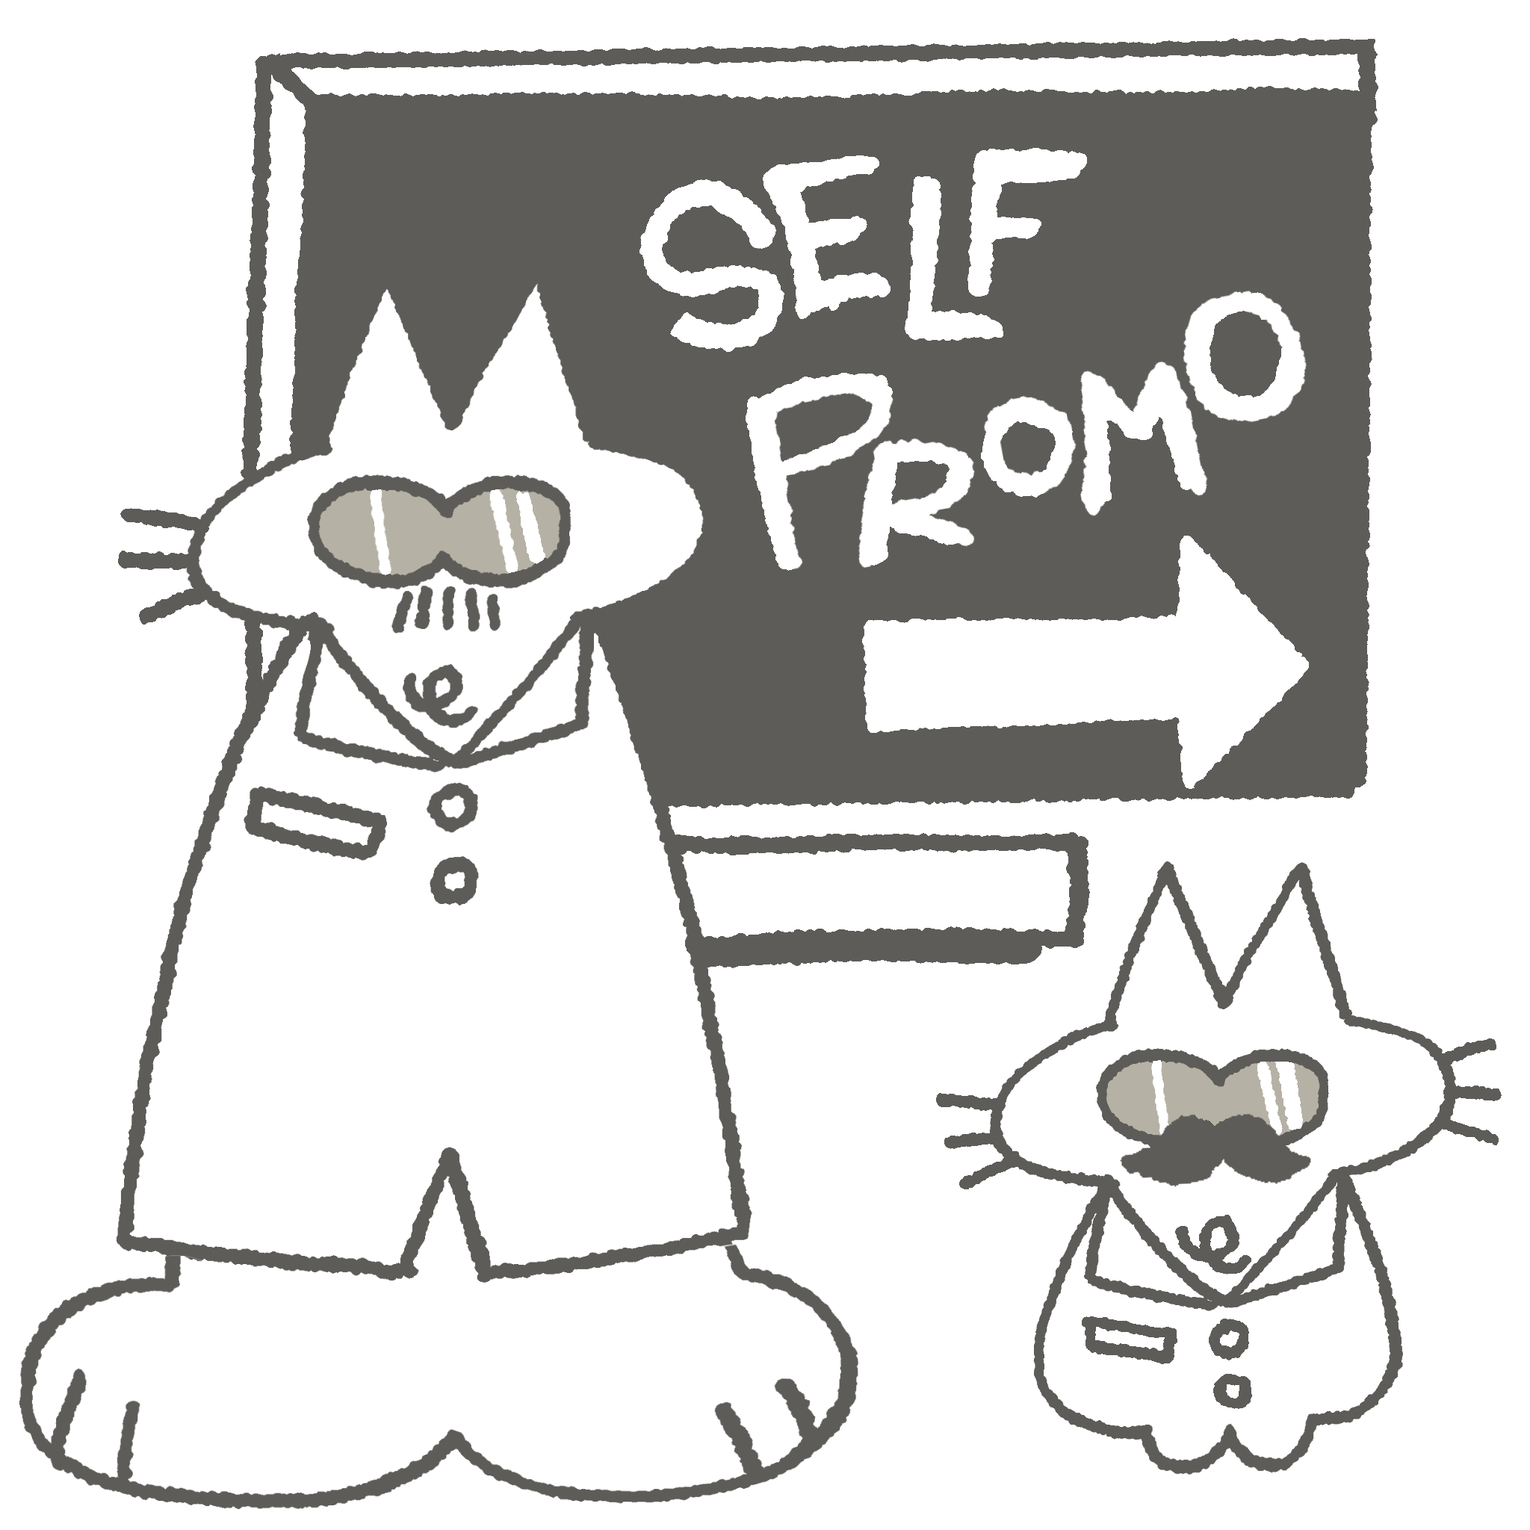
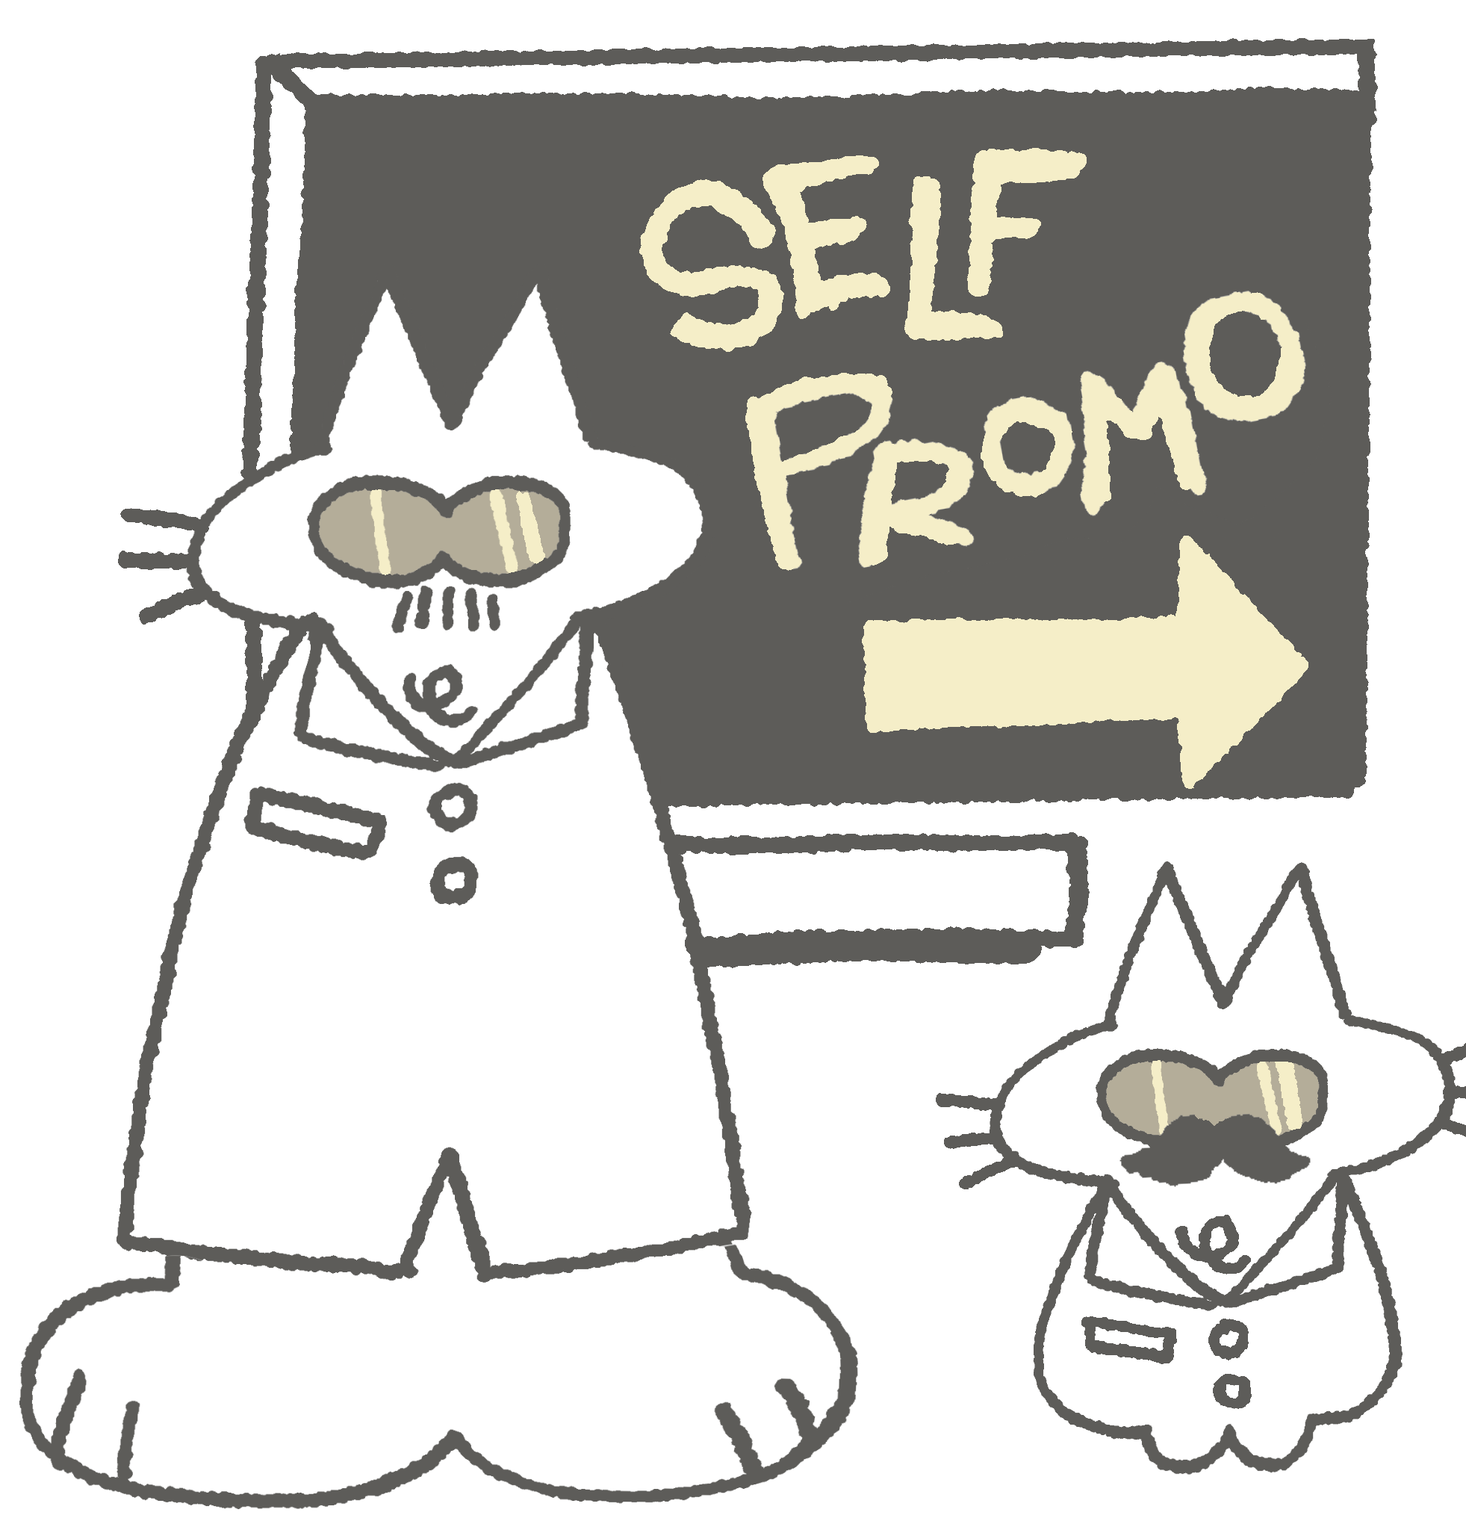
debug + feat: catalogue filter, self-promo content
trying to debug the catalogue filter issue, im pretty sure its an issue with the coding logic with the multiselection filter because it doesnt consider all the options selected

also added basic version of content into self promo pages and customised it a bit aesthetically

diff --git a/events.html b/events.html
@@ -5,8 +5,8 @@
       <meta name="viewport"
       content="width=device-width,
       initial-scale=1.0">
-    <link rel="stylesheet" href="style.css">
-    <script src="script.js" defer></script>
+    <link rel="stylesheet" href="./css-files/style.css">
+    <script src="./js-files/script.js" defer></script>
     <script src="./js-files/script.js"></script> 
     <title>KRAFTY</title>
     <link rel="icon" href="./HTML-graphics/KRAFTY_logo.png">
@@ -16,42 +16,62 @@
 
     <h2>Events</h2>
     <div class="events-content">
-      <h3>Inktober</h3>
-      <p>Annual art event hosted by creatives () where for the month of October, a one-word prompt is released everyday. Artists around the world (including you!) can partake in this event by creating a creative piece such as an ink sketch, digital illustration or even a doodle inspired off these prompts. Every year, thousands of artists share their creative ideas and interpretations tagging the official Inktober account below!</p>
-      <a class="button" href="${prod.link}">Official Insta Page</a>
+      <div class="left-p">
+        <h3>Inktober</h3>
+        <p>Annual art event originally created by Jake Parker as an ink-drawing challenge for the month of October. Today, it has been transformed into an all-art inclusive event where a one-word prompt is released everyday and artists around the world (including you!) can partake in by creating a creative piece such as an ink sketch, digital illustration or even a doodle inspired off the prompts. Every year, thousands of artists share their imaginative ideas and interpretations tagging the official Inktober account below! There are also similar month-related art challenges that are equally popular to Inktober such as Mermay, so choose one that suits you best.</p>
+        <a class="button" href="${prod.link}">Official Insta Page</a>
+      </div>
 
-      <h3>Artfight</h3>
-      <p>Art Fight is a global art event hosted every (the month) where a growing 850,000 artists come together to play a massive fannart gifting game! It typically features the creation of unique team names and themes for artists to join, and artists can participate by finding artists with original characters of their liking, drawing, modelling or animating a piece of fannart and sending an 'attack'. Creating attacks, defenses, revenges and friendly fire all add up to your personal score that contributes to your team score, and by the end of the month the winning team is announced. You can join too by creating an account on their official website in the link below, and adding your very own original character spreadsheets and descriptions.  </p>
-      <a class="button" href="${prod.link}" style="padding-left: 60px; padding-right: 60px">Official Website</a>
-      <a class="button" href="${prod.link}" style="padding-left: 60px; padding-right: 60px">Discord Community</a>
+      <div class="right-p">
+        <h3>Artfight</h3>
+        <p>Art Fight is a global art event hosted every July where a growing 850,000 artists come together to play a massive fannart gifting game! It typically features the creation of unique team names and themes for artists to join, and artists can participate by finding artists with original characters of their liking, drawing, modelling or animating a piece of fannart and sending an 'attack'. Creating attacks, defenses, revenges and friendly fire all add up to your personal score that contributes to your team score, and by the end of the month the winning team is announced. You can join too by creating an account on their official website in the link below, and adding your very own original character spreadsheets and descriptions.  </p>
+        <a class="button" href="${prod.link}" style="padding-left: 60px; padding-right: 60px">Official Website</a>
+        <a class="button" href="${prod.link}" style="padding-left: 60px; padding-right: 60px">Discord Community</a>
+      </div>
 
-      <h3>Artfight Discord Minigames</h3>
-      <p>Since the rapid growth of Artfight and its community, the Artfight admins host art minigames in their official Discord server when Artfight is off season! This includes small and fun games such as 'Draw the Person Above You' or telephone art, which involves an initial artwork being redrawn multiple times by everyone and seeing all the details change with each piece! </p>
-      <a class="button" href="${prod.link}" style="padding-left: 60px; padding-right: 60px">Discord Community</a>
-      
-      <h3>DTIYS</h3>
-      <p>DTIYS stands for 'Draw it in your style' and is a common art challenge hosted by a plethora of big AND small artists online. These challenges come with a character, prompt or idea for you to redesign or create in your own artstyle, and it often comes with some prizes depending on the artist, like a some prize money, a mystery gift from their artshop, or a free commission! You can find many amazing DTIYS events by searching up the #DTIYS on social media platforms like Instagram, X, Tiktok and more.</p>
+      <div class="left-p">
+        <h3>Artfight Discord Minigames</h3>
+        <p>Since the rapid growth of Artfight and its community, the Artfight admins host art minigames in their official Discord server when Artfight is off season! This includes small and fun games such as 'Draw the Person Above You' or telephone art, which involves an initial artwork being redrawn multiple times by everyone and seeing all the details change with each piece! </p>
+        <a class="button" href="${prod.link}">Discord Community</a>
+      </div>
 
-      <h3>100 Day Project</h3>
-      <p>Although the '100 Day Project' is not an actual event or a community, it is a prevalent personal art challenge that many artists take themselves up to. It involves creating a single goal or subject/art form that you want to improve at and sticking to it for 100 days! Many artists on social media use it in a way that they post one piece of art every day, working on things like perspective, rendering, anatomy, animals and architecture. Watch yourself get better step by step, and see the rewarding transformation in your art!</p>
+      <div class="right-p">
+        <h3>DTIYS</h3>
+        <p>DTIYS stands for 'Draw it in your style' and is a common art challenge hosted by a plethora of big AND small artists online. These challenges come with a character, prompt or idea for you to redesign or create in your own artstyle, and it often comes with some prizes depending on the artist, like a some prize money, a mystery gift from their artshop, or a free commission! You can find many amazing DTIYS events by searching up the #DTIYS on social media platforms like Instagram, X, Tiktok and more.</p>
+      </div>
 
-      <h3>Secret Santa</h3>
-      <p>Secret Santa is another art gifting event hosting by hundreds of art Discord servers in the festive season of Christmas (although some art communities do it all year round!). It takes the exciting anonymity of traditional Secret Santa and replaces boxes of presents with gorgeous art based of your wishlist from a fellow community member! You can find discord art servers easily by searching in the communities section for 'art servers'; your favourite youtubers and artists might own a server too!</p>
+      <div class="left-p">
+        <h3>100 Day Project</h3>
+        <p>Although the '100 Day Project' is not an actual event or a community, it is a prevalent personal art challenge that many artists take themselves up to. It involves creating a single goal or subject/art form that you want to improve at and sticking to it for 100 days! Many artists on social media use it in a way that they post one piece of art every day, working on things like perspective, rendering, anatomy, animals and architecture. Watch yourself get better step by step, and see the rewarding transformation in your art!</p>
+      </div>
 
-      <h3>Art Trades/Collabs</h3>
-      <p>Art trading and art collaborations are both fun and often casual activities you can do with anyone: your school friends, your art mutuals, or even unacquainted artists from a Discord server! Some ideas that are done regularly include sending physical parcels of letters/drawings/trinkets, creating a piece of illustration of eachother's original characters or using a template or art trend where each artist can draw a specific pose or section of the final artwork!</p>
+      <div class="right-p">
+        <h3>Secret Santa</h3>
+        <p>Secret Santa is another art gifting event hosting by hundreds of art Discord servers in the festive season of Christmas (although some art communities do it all year round!). It takes the exciting anonymity of traditional Secret Santa and replaces boxes of presents with gorgeous art based of your wishlist from a fellow community member! You can find discord art servers easily by searching in the communities section for 'art servers'; your favourite youtubers and artists might own a server too!</p>
+      </div>
 
-      <h3>Indie Magazines</h3>
-      <p>There are many, many independent art magazine accounts and businesses that are open to submission! This means by submitting your illustrations and art, you can be featured in issues that proudly support and promote you and fellow artists. Many indie art magazines are usually based on social media platforms like Instagram, so searching key words like "art magazine submission" can help you find the right zine for you! Here are some popular art magazine accounts below: </p>
-      <a class="button" href="https://www.instagram.com/m0dazine/" style="padding-left: 60px; padding-right: 60px">Modazine</a>
-      <a class="button" href="https://www.instagram.com/heiisei11/" style="padding-left: 60px; padding-right: 60px">Heiisei11 Retro</a>
-      <a class="button" href="https://www.instagram.com/p/DbLLWCJkXYC/?img_index=1" style="padding-left: 60px; padding-right: 60px">nicezines</a>
-  
+      <div class="left-p">
+        <h3>Art Trades/Collabs</h3>
+        <p>Art trading and art collaborations are both fun and often casual activities you can do with anyone: your school friends, your art mutuals, or even unacquainted artists from a Discord server! Some ideas that are done regularly include sending physical parcels of letters/drawings/trinkets, creating a piece of illustration of eachother's original characters or using a template or art trend where each artist can draw a specific pose or section of the final artwork!</p>
+      </div>
 
+      <div class="right-p">
+        <h3>Indie Magazines</h3>
+        <p>There are many, many independent art magazine accounts and businesses that are open to submission! This means by submitting your illustrations and art, you can be featured in issues that proudly support and promote you and fellow artists. Many indie art magazines are usually based on social media platforms like Instagram, so searching key words like "art magazine submission" can help you find the right zine for you! Here are some popular art magazine accounts below: </p>
+        <div style="display: flex; flex-direction: row; margin-top: 0;">
+          <a class="button" href="https://www.instagram.com/m0dazine/" style="padding-left: 60px; padding-right: 60px">Modazine</a>
+          <a class="button" href="https://www.instagram.com/heiisei11/" style="padding-left: 60px; padding-right: 60px">Heiisei11</a>
+          <a class="button" href="https://www.instagram.com/p/DbLLWCJkXYC/?img_index=1" style="padding-left: 60px; padding-right: 60px">nicezines</a>
+        </div>
+      </div>
+
+      <div class="left-p">
       <h3>Character Design Challenge</h3>
       <p>The team at Character Design References runs a popular art design challenge every month that thousands of international artists partake in. It invites artists to submit a single illustration of a character interpreting the monthly theme, where stand-out entries often win prizes such as art books, graphic novels, tutorials, digital brushes and a chance to feature on their homepage! This challenge promotes creative design and allows artists a chance to build their art portfolio alongside a supportive community of artists. You can participate by joining their Facebook Group, tagging them on Instagram, or by submitting on their exclusive Patreon. More information can be found below on their official site.</p>
       <a class="button" href="${prod.link}">Official Website</a>
+      </div>
 
     </div>
+    <br><br><br><br><br>
   </body>
 </html>

diff --git a/self-promo-101.html b/self-promo-101.html
@@ -5,8 +5,8 @@
       <meta name="viewport"
       content="width=device-width,
       initial-scale=1.0"/>
-    <link rel="stylesheet" href="style.css">
-    <link rel="stylesheet" href="flipbook.css"/>
+    <link rel="stylesheet" href="./css-files/style.css">
+    <link rel="stylesheet" href="./css-files/flipbook.css"/>
     <script src="./js-files/script.js" defer></script>
     <title>KRAFTY</title>
     <link rel="icon" href="./HTML-graphics/KRAFTY_logo.png">
@@ -16,24 +16,37 @@
     <img class="selfpromo-cat" src="./HTML-graphics/selfpromo-cats.png">
     <div class="flipbook-container">
     <div class="flipbook">
-      <div class="hard">101</div>
-      <div class="hard"></div>
+      <div class="hard">
+        <img src="./HTML-graphics/selfpromo-bookcover.gif">
+      </div>
+      <div class="hard">Self-Promo : <br> The 101 Guide</div>
 
       <div>
-        <small> Random stuff</small>
+        <h3>Posting Schedule</h3>
+        <p>Quantity and consistent posting is important (pick a posting schedule that is sustainable for YOU. often people find that posting 2-3 times a week is tiring and can lead to burnout)</p>
       </div>
       <div>
-        <small> Random stuff</small>
+        <h3>Consistency</h3>
+        <p>quality is important especially for making a consistent and curated art profile that is appealing to users! Hone into specific fandoms /communities you want to appeal to</p>
       </div>
       <div>
-        <small> Random stuff</small>
+        <h3>Personality</h3>
+        <p>Engage with your audience Interact with people on your account, make mutuals and friends and make sure your posts have your personal voice</p>
       </div>
       <div>
-        <small> Random stuff</small>
+        <h3>Content</h3>
+        <p>Try out some art trends on social media: show current trends/audios and Participate in DTIYS and art challenges: it makes ur account easier to find</p>
+      </div>
+      <div>
+        <h3>Algorithm</h3>
+        <p>Pay attention to what works: see what types of videos and posts of urs the algorithm pushes and focus on them. For eg posting a lot of fannart from a show </p>
+      </div>
+      <div>
+        <h3>Most importantly,</h3>
+        <p>Don’t be discouraged or afraid to experiment! After all, your following does not matter, it is more about connecting with people and artists and sharing your creativity! You dont have to follow all these as they are just tips</p>
       </div>
 
       <div class="hard"></div>
-      <div class="hard">That's all bro</div>
     </div>
     </div>
 

diff --git a/css-files/style.css b/css-files/style.css
@@ -1,7 +1,16 @@
+/*Importing custom font*/
+@font-face {
+  font-family: Hatchway;
+  src: url(../HTML-graphics/hatchway.ttf)
+}
+
 body {
   margin: 0;
   padding: 0;
+  font-family: "Hatchway";
   background-color: #f5eec8;
+  text-transform: uppercase;
+  color: #5D5C59;
 }
 
 .margin-page {
@@ -20,64 +29,70 @@ body {
 }
 
 .selfpromo-cat {
-  width: 450px;
-  height: 450px;
-  transform: translate(30px, 220px);
+  width: 30%;
+  height: 67%;
+  transform: translate(310px, 213px);
   pointer-events: none;
   position: absolute;
   z-index: -1;
 }
 
-/*Importing custom font*/
-@font-face {
-  font-family: Hatchway;
-  src: url(./HTML-graphics/hatchway.ttf)
-}
-
-.events-content {
-  text-align: left;
-  padding: 0 0 10px 40px;
-  color: #5D5C59;
-  z-index: -1;
-}
 
 h3 {
-  font-family: "Hatchway";
   font-size: 50px;
-  text-transform: uppercase;
+  margin: 0;
 }
 
 h2 {
   text-align: center;
-  color: #5D5C59;
-  font-family: "Hatchway";
   font-size: 60px;
-  text-transform: uppercase;
   z-index: -1;
 }
 
 h1 {
   text-align: right;
-  color: #5D5C59;
-  font-family: "Hatchway";
   font-size: 90px;
-  text-transform: uppercase;
   transform: translate(930px, 320px);
   position: absolute;
   z-index: -1;
 }
 
+p {
+  font-size: 21px;
+  text-transform: none;
+  font-family:'Segoe UI', Tahoma, Geneva, Verdana, sans-serif;
+}
+
+.events-content {
+  display: flex;
+  flex-direction: column;
+  width: 100%;
+}
+
+.left-p {
+  align-self: flex-start;
+  width: 45%;
+  padding-left: 60px; 
+}
+
+.right-p {
+  text-align: right;
+  align-self: flex-end;
+  width: 45%;
+  padding-right: 60px;
+}
+
 .button {
-    background-color: #b2a387;
-    padding: 7px 200px 7px 200px;
-    font-family: "Hatchway";
-    font-size: 23px;
-    color: #f5eec8;
-    text-transform: uppercase;
-    text-decoration: none;
-    text-align: center;
-    margin: 110px 0 0 10px;
-    border-radius: 25px;
+  background-color: #b2a387;
+  padding: 7px 200px 7px 200px;
+  font-family: "Hatchway";
+  font-size: 23px;
+  color: #f5eec8;
+  text-transform: uppercase;
+  text-decoration: none;
+  text-align: center;
+  margin-left: 10px;
+  border-radius: 25px;
 }
 
 .nav {

diff --git a/js-files/products.js b/js-files/products.js
@@ -118,11 +118,11 @@ const products = [
     },
     {
         id: 14,
-        title: "POSEMANIACS",
+        title: "Alight Motion",
         desc: "",
-        img: './HTML-graphics/posemaniacs-logo.png',
-        link: "https://www.posemaniacs.com/",
-        type_category: ["croquis-reference"],
+        img: '',
+        link: "",
+        type_category: ["animation, image-video-editing"],
         price_category: ["free"]
     },
     {
@@ -310,7 +310,7 @@ const renderProds = (arr) => {
                 <div class="card-content"> 
                     <h4>${prod.title}</h4>
                     <p>${prod.desc}</p>
-                    <a class="button" href="${prod.link}">Check it out!</a>
+                    <a class="button" href="${prod.link}" style="margin-top: 90px;">Check it out!</a>
                 </div>
           </div>`
     })

diff --git a/css-files/flipbook.css b/css-files/flipbook.css
@@ -26,18 +26,18 @@ body {
 }
 
 .flipbook .hard {
-    background: #c0392b !important;
-    color: #fff;
-    font-weight: bold;
+    background: #9e8f71 !important;
     border: none;
+    font-size: 40px;
+    text-align: center;
+    color: #5D5C59;
 }
 
-.flipbook .hard small {
-    font-style: italic;
-    font-weight: lighter;
-    opacity: 0.7;
-    font-size: 14px;
+.flipbook .hard img {
+    width: 200%;
+    height: 200%
 }
+
 
 .flipbook .page {
     background: white;
@@ -53,3 +53,5 @@ body {
     font-size: 14px;
     margin-bottom: 10px;
 }
+
+

diff --git a/app-website-finder.html b/app-website-finder.html
@@ -5,8 +5,8 @@
       <meta name="viewport"
       content="width=device-width,
       initial-scale=1.0">
-    <link rel="stylesheet" href="style.css">
-    <link rel="stylesheet" href="catalogue-filter.css">
+    <link rel="stylesheet" href="./css-files/style.css">
+    <link rel="stylesheet" href="./css-files/catalogue-filter.css">
     <script src="./js-files/script.js" defer></script>
     <script src="./js-files/products.js" defer></script>
     <script src="./js-files/multiselect-dropdown.js"></script>

diff --git a/css-files/catalogue-filter.css b/css-files/catalogue-filter.css
@@ -36,7 +36,7 @@ select, option {
     display: flex;
     flex-direction: column;
     font-family: "Hatchway";
-    font-size: 23px;
+    font-size: 30px;
     color: #5D5C59;
 }
 
@@ -45,9 +45,8 @@ select, option {
 }
 
 .card-content p {
-    font-family:'Segoe UI', Tahoma, Geneva, Verdana, sans-serif;
     position: absolute;
-    margin-top: 70px;
+    margin-top: 80px;
 }
 
 .filters {

diff --git a/index.html b/index.html
@@ -5,7 +5,7 @@
       <meta name="viewport"
       content="width=device-width,
       initial-scale=1.0"/>
-    <link rel="stylesheet" href="style.css"/>
+    <link rel="stylesheet" href="./css-files/style.css"/>
     <script src="./js-files/script.js" defer></script>
     <title>KRAFTY</title>
     <link rel="icon" href="./HTML-graphics/KRAFTY_logo.png">
